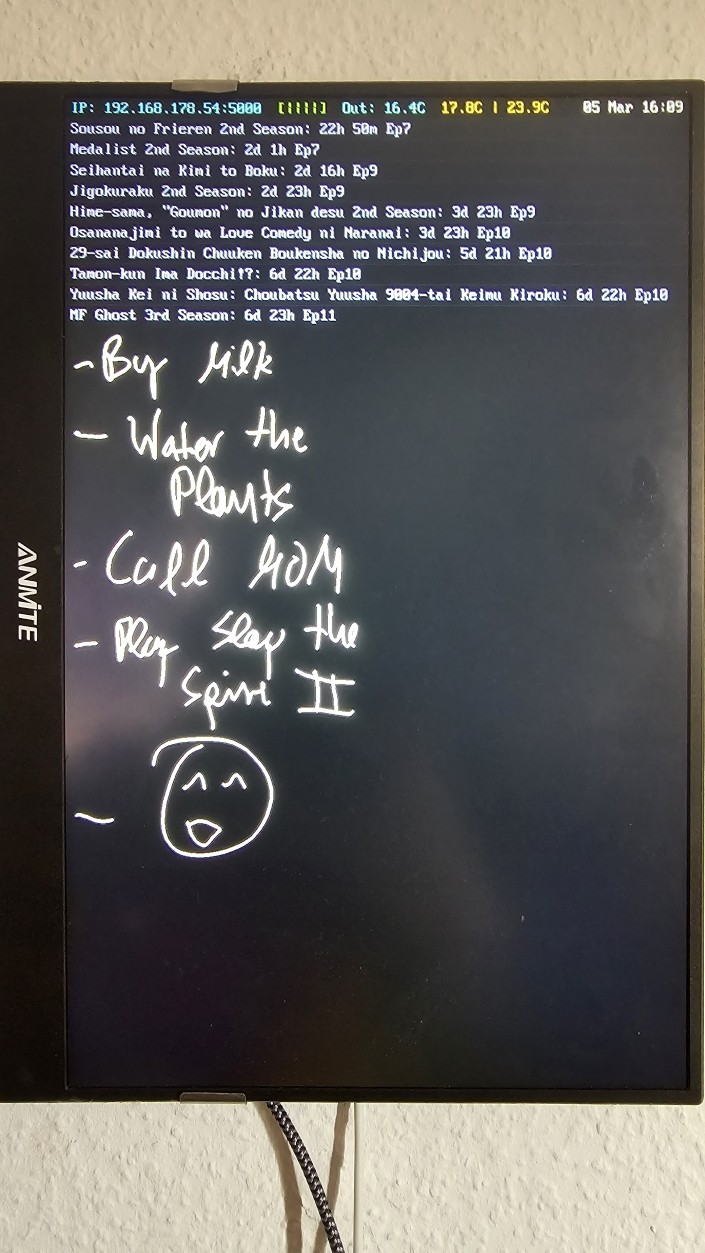
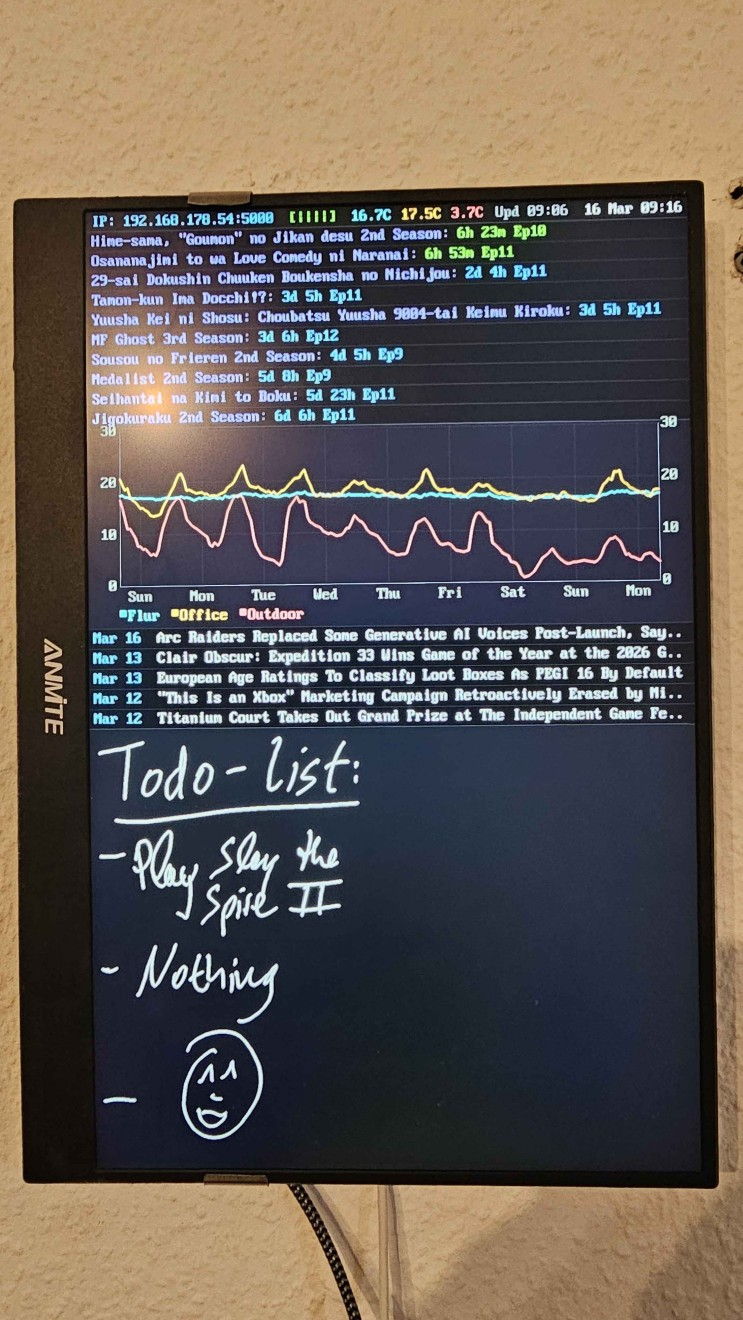
Update photos: portrait and landscape layouts side by side

diff --git a/README.md b/README.md
@@ -6,7 +6,11 @@ A lightweight C server that turns a Raspberry Pi with an LCD into a handwritten 
 ![Language](https://img.shields.io/badge/Language-C-blue)
 ![License](https://img.shields.io/badge/License-MIT-green)
 
-![PiNote in action](photo.jpg)
+<p align="center">
+  <img src="photo.jpg" width="360" alt="Portrait mode — full-width modules">
+  &nbsp;&nbsp;
+  <img src="photo2.jpg" width="420" alt="Landscape mode — half-width chart + notes">
+</p>
 
 ## Features
 
